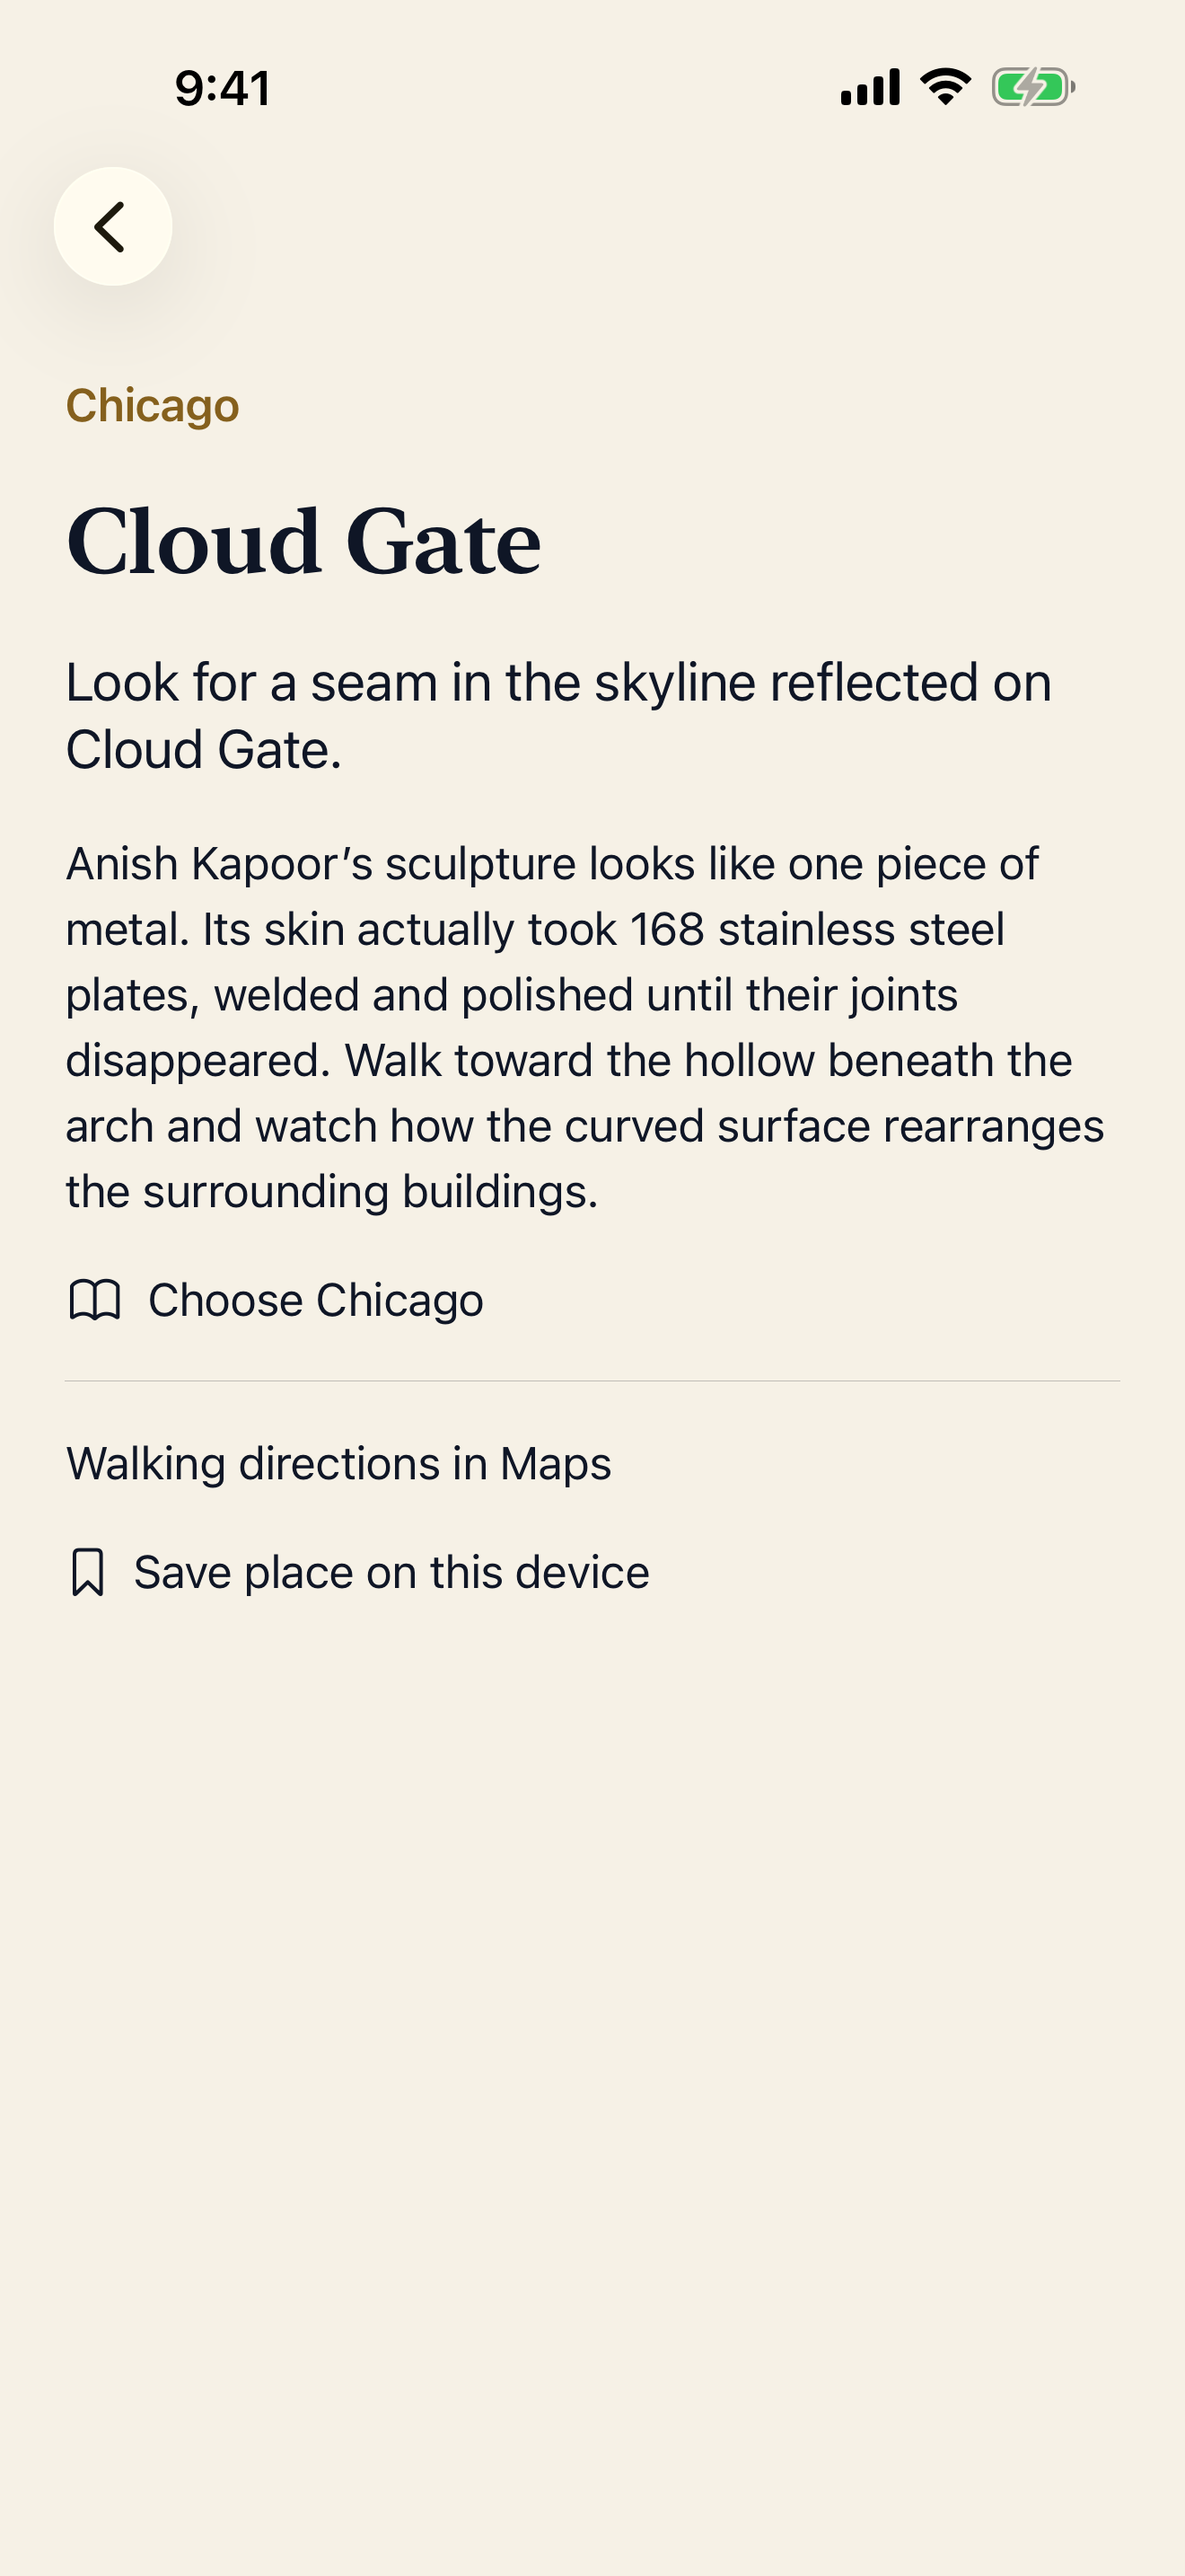
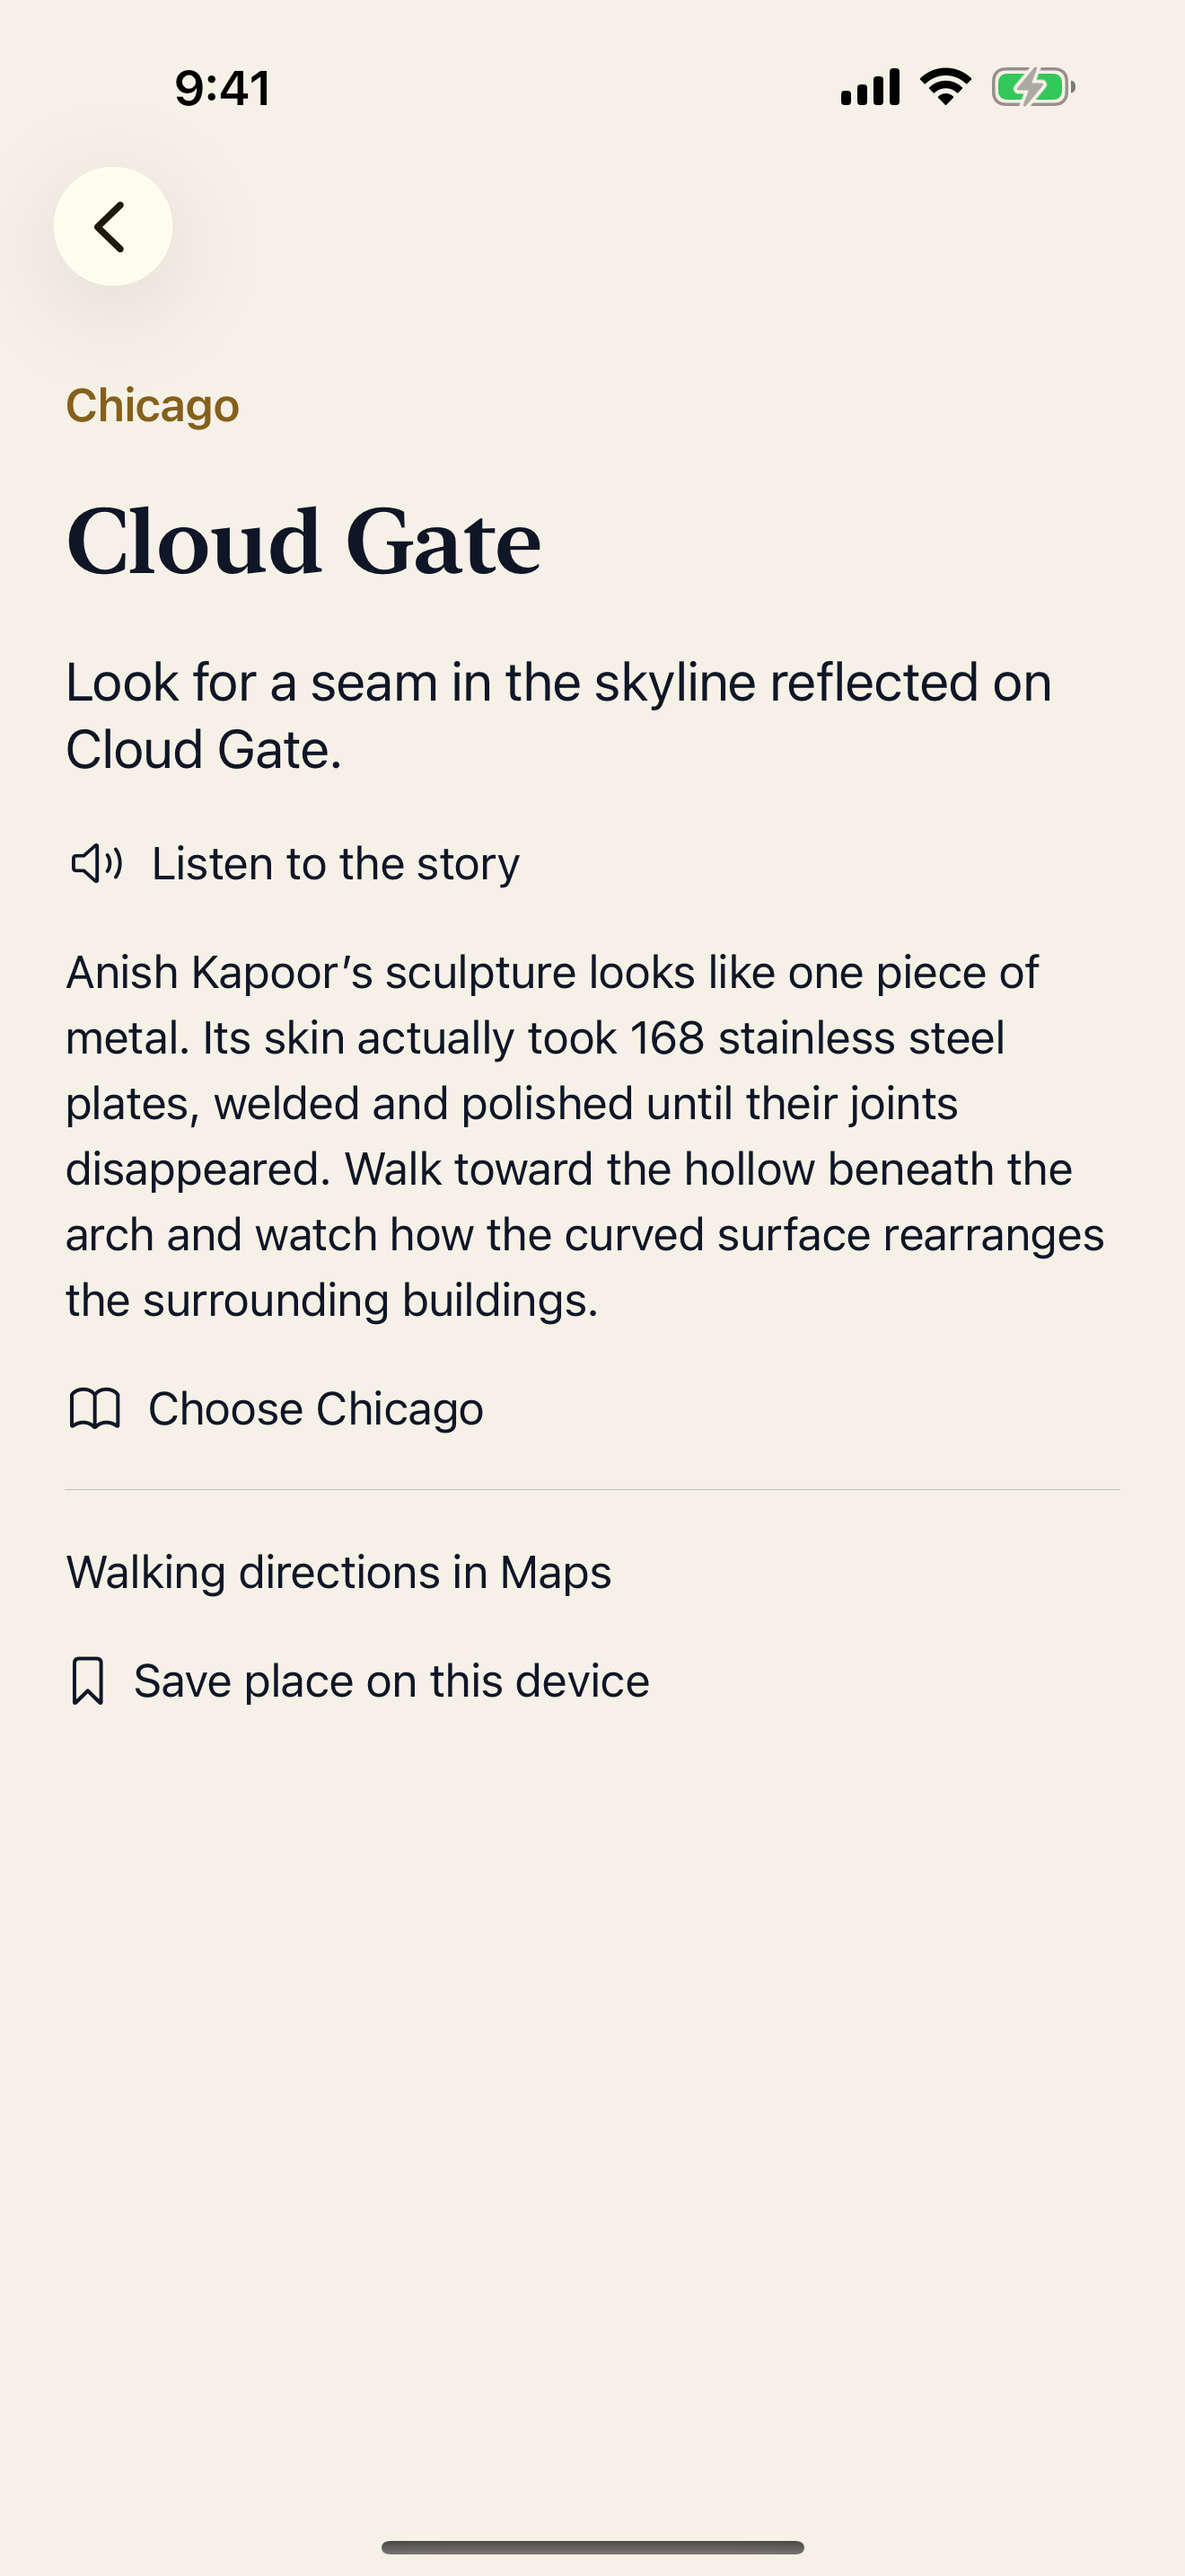
Publish native screenshots for the Lore 1.3 map release (#71)

diff --git a/fastlane/promo_screenshots/README.md b/fastlane/promo_screenshots/README.md
@@ -1,5 +1,13 @@
-# Lore 1.2.1 screenshots
+# Lore 1.3 screenshots
 
-These native simulator captures show the Starter Guide bundled with Lore 1.2.1 build 50. The three screens on each device show the city list, the four Chicago landmarks, and Cloud Gate’s story with its source, walking directions and save control. The offline journey also checks search and access to Restore purchases.
+The Atlas frame shows Chicago with its bundled landmark pins. Field Walk shows the Space Needle stop on Seattle’s Emerald City Sampler. Cloud Gate shows the historical story from the Chicago guide. Each frame comes directly from the iOS app.
 
-Release source `1ea19ad3068ae0dde3c102b4226818f2af49896f` produced the iPhone 17 Pro Max (1320 × 2868) and iPad Pro 13-inch M5 (2064 × 2752) screenshots. The original opaque RGB PNGs are in `en-US`. [CAPTURE.json](CAPTURE.json) records their byte lengths, dimensions, SHA-256 hashes, simulator runtime and capture times.
+Release source `8c406079bca0d8e8df3e28685da6457f98586ac2` produced the iPhone 17 Pro Max (1320 × 2868) and iPad Pro 13-inch M5 (2064 × 2752) frames. [Capture manifest](CAPTURE.json)
+
+| Screen | iPhone | iPad |
+| --- | --- | --- |
+| Atlas | [Chicago landmarks](en-US/01_atlas.png) | [Chicago landmarks](en-US/ipad_01_atlas.png) |
+| Field Walk | [Seattle walk](en-US/02_field_walk.png) | [Seattle walk](en-US/ipad_02_field_walk.png) |
+| Cloud Gate | [Place story](en-US/03_cloud_gate.png) | [Place story](en-US/ipad_03_cloud_gate.png) |
+
+The capture manifest records the source commit, build number, simulator runtime, capture times, dimensions, file sizes and SHA-256 checksums.

diff --git a/README.md b/README.md
@@ -32,13 +32,13 @@ This repository contains the iOS client; the backend is maintained separately.
 
 ## Screenshots
 
-Lore 1.2.1 build 50 includes a guide you can browse offline. These screenshots show its city list, Chicago landmarks and Cloud Gate story. [Screenshot details](fastlane/promo_screenshots/README.md)
+Lore 1.3 opens on a map of nearby landmarks. These iPhone previews show the Chicago map, the Space Needle stop on Seattle’s Emerald City Sampler, and the story of Cloud Gate. [Capture details and iPad screenshots](fastlane/promo_screenshots/README.md)
 
 <table>
   <tr>
-    <td><img src="fastlane/promo_screenshots/en-US/01_starter_guide.png" width="240" alt="Starter Guide listing five cities available offline" /></td>
-    <td><img src="fastlane/promo_screenshots/en-US/02_chicago.png" width="240" alt="Four Chicago landmarks in the bundled guide" /></td>
-    <td><img src="fastlane/promo_screenshots/en-US/03_cloud_gate.png" width="240" alt="Cloud Gate story with source, directions and local save control" /></td>
+    <td><img src="fastlane/promo_screenshots/en-US/01_atlas.png" width="240" alt="Chicago street map with the bundled landmarks and a location control" /></td>
+    <td><img src="fastlane/promo_screenshots/en-US/02_field_walk.png" width="240" alt="Space Needle at stop one of four on Seattle's Emerald City Sampler walk" /></td>
+    <td><img src="fastlane/promo_screenshots/en-US/03_cloud_gate.png" width="240" alt="Cloud Gate's sourced story with on-device narration and walking directions" /></td>
   </tr>
 </table>
 
